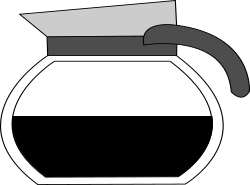
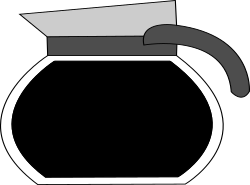
Fixed pot sensor functionality and fixed full pot element.

diff --git a/src/view/CoffeeMakerGui.java b/src/view/CoffeeMakerGui.java
@@ -33,15 +33,15 @@ public class CoffeeMakerGui extends JFrame {
 	final String BOILER_NOT_EMPTY = "resources/boilerNotEmpty.png";
 	final String BOILER_EMPTY = "resources/boilerEmpty.png";
 
-	final String BOILER_HEADER_ON = "resources/boilerHeaterOn.png";
-	final String BOILER_HEADER_OFF = "resources/boilerHeaterOff.png";
+	final String BOILER_HEATER_ON = "resources/boilerHeaterOn.png";
+	final String BOILER_HEATER_OFF = "resources/boilerHeaterOff.png";
 
-	final String PLATE_HEADER_ON = "resources/plateHeaterOn.png";
-	final String PLATE_HEADER_OFF = "resources/plateHeaterOff.png";
+	final String PLATE_HEATER_ON = "resources/plateHeaterOn.png";
+	final String PLATE_HEATER_OFF = "resources/plateHeaterOff.png";
 
-	final String PLATE_HEADER_POT_EMPTY = "resources/potEmpty_plateSensor.png";
-	final String PLATE_HEADER_POT_NOT_EMPTY = "resources/potNotEmpty_plateSensor.png";
-	final String PLATE_HEADER_WARMER_EMPTY = "resources/warmerEmpty_plateSensor.png";
+	final String PLATE_SENSOR_POT_EMPTY = "resources/potEmpty_plateSensor.png";
+	final String PLATE_SENSOR_POT_NOT_EMPTY = "resources/potNotEmpty_plateSensor.png";
+	final String PLATE_SENSOR_WARMER_EMPTY = "resources/warmerEmpty_plateSensor.png";
 
 	// creacion del panel que contenera todos los elementos.
 	private JPanel background;
@@ -53,8 +53,8 @@ public class CoffeeMakerGui extends JFrame {
 	private JLabel waterSensor;
 	private JLabel plateSensor;
 	private JLabel boiler;
-	private JLabel boilerHeader;
-	private JLabel plateHeader;
+	private JLabel boilerHeater;
+	private JLabel plateHeater;
 	private JLabel filter;
 	private JLabel pot;
 	private JLabel coffee;
@@ -80,7 +80,7 @@ public class CoffeeMakerGui extends JFrame {
 	private JMenu potMenu;
 	private JMenuItem putThePotsubMenu;
 	private JMenuItem raisethePotsubMenu;
-	private JMenuItem emptyThePotsubMenu;
+	//private JMenuItem emptyThePotsubMenu;
 	private JMenuItem fillThePotSubMenu;
 	
 	private JMenu filterMenu;
@@ -89,9 +89,9 @@ public class CoffeeMakerGui extends JFrame {
 	private JMenuItem emptyTheFiltersubMenu;
 	private JMenuItem fillTheFilterSubMenu;
 
-	private JMenu plateHeaderMenu;
-	private JMenuItem plateHeaderOnSubMenu;
-	private JMenuItem plateHeaderOffSubMenu;
+	private JMenu plateHeaterMenu;
+	private JMenuItem plateHeaterOnSubMenu;
+	private JMenuItem plateHeaterOffSubMenu;
 
 	private JMenu valveMenu;
 	private JMenuItem valveOpenSubMenu;
@@ -114,8 +114,8 @@ public class CoffeeMakerGui extends JFrame {
 		start = new JButton();
 		brew = new JLabel();
 		boiler = new JLabel();
-		boilerHeader = new JLabel();
-		plateHeader = new JLabel();
+		boilerHeater = new JLabel();
+		plateHeater = new JLabel();
 
 		configMouseIcon();
 		configCoffeeMakerGui();
@@ -192,15 +192,15 @@ public class CoffeeMakerGui extends JFrame {
 	}
 
 	public void setPlateSensorAsPlateNotEmpty() {
-		plateSensor.setIcon(new ImageIcon(PLATE_HEADER_POT_NOT_EMPTY));
+		plateSensor.setIcon(new ImageIcon(PLATE_SENSOR_POT_NOT_EMPTY));
 	}
 
 	public void setPlateSensorAsPlateEmpty() {
-		plateSensor.setIcon(new ImageIcon(PLATE_HEADER_POT_EMPTY));
+		plateSensor.setIcon(new ImageIcon(PLATE_SENSOR_POT_EMPTY));
 	}
 
 	public void setPlateSensorAsWarmerEmpty() {
-		plateSensor.setIcon(new ImageIcon(PLATE_HEADER_WARMER_EMPTY));
+		plateSensor.setIcon(new ImageIcon(PLATE_SENSOR_WARMER_EMPTY));
 	}
 
 	public void configBoiler() {
@@ -210,15 +210,15 @@ public class CoffeeMakerGui extends JFrame {
 	}
 
 	public void configBoilerHeater() {
-		setBoilerHeaderOff();
-		boilerHeader.setBounds(31, 388, 212, 23);
-		add(boilerHeader);
+		setBoilerHeaterOff();
+		boilerHeater.setBounds(31, 388, 212, 23);
+		add(boilerHeater);
 	}
 
 	public void configPlateHeater() {
-		setPlateHeaderOff();
-		plateHeader.setBounds(338, 408, 212, 23);
-		add(plateHeader);
+		setPlateHeaterOff();
+		plateHeater.setBounds(338, 408, 212, 23);
+		add(plateHeater);
 	}
 
 	public JMenuItem getValveOpenSubMenu() {
@@ -236,29 +236,30 @@ public class CoffeeMakerGui extends JFrame {
 	public JMenuItem getRaisethePotsubMenu() {
 		return raisethePotsubMenu;
 	}
-
+	/*
 	public JMenuItem getEmptyThePotsubMenu() {
 		return emptyThePotsubMenu;
 	}
+	*/
 
 	public JMenuItem getFillThePotSubMenu() {
 		return fillThePotSubMenu;
 	}
 
 	public void setBoilerHeaterOn() {
-		boilerHeader.setIcon(new ImageIcon(BOILER_HEADER_ON));
+		boilerHeater.setIcon(new ImageIcon(BOILER_HEATER_ON));
 	}
 
-	public void setBoilerHeaderOff() {
-		boilerHeader.setIcon(new ImageIcon(BOILER_HEADER_OFF));
+	public void setBoilerHeaterOff() {
+		boilerHeater.setIcon(new ImageIcon(BOILER_HEATER_OFF));
 	}
 
-	public void setPlateHeaderOn() {
-		plateHeader.setIcon(new ImageIcon(PLATE_HEADER_ON));
+	public void setPlateHeaterOn() {
+		plateHeater.setIcon(new ImageIcon(PLATE_HEATER_ON));
 	}
 
-	public void setPlateHeaderOff() {
-		plateHeader.setIcon(new ImageIcon(PLATE_HEADER_OFF));
+	public void setPlateHeaterOff() {
+		plateHeater.setIcon(new ImageIcon(PLATE_HEATER_OFF));
 	}
 
 	public JPopupMenu getCoffeeMakerMenu() {
@@ -273,20 +274,20 @@ public class CoffeeMakerGui extends JFrame {
 		return fillWaterSubMenu;
 	}
 
-	public JMenuItem getBoilerHeaderOnSubMenu() {
+	public JMenuItem getBoilerHeaterOnSubMenu() {
 		return boilerHeaterOnSubMenu;
 	}
 
-	public JMenuItem getBoilerHeaderOffSubMenu() {
+	public JMenuItem getBoilerHeaterOffSubMenu() {
 		return boilerHeaterOffSubMenu;
 	}
 
-	public JMenuItem getPlateHeaderOnSubMenu() {
-		return plateHeaderOnSubMenu;
+	public JMenuItem getPlateHeaterOnSubMenu() {
+		return plateHeaterOnSubMenu;
 	}
 
-	public JMenuItem getPlateHeaderOffSubMenu() {
-		return plateHeaderOffSubMenu;
+	public JMenuItem getPlateHeaterOffSubMenu() {
+		return plateHeaterOffSubMenu;
 	}
 
 	public void setWaterSensorAsBoilerNotEmpty() {

diff --git a/src/controller/CoffeeMakerController.java b/src/controller/CoffeeMakerController.java
@@ -63,23 +63,13 @@ public class CoffeeMakerController {
 				view.setWaterSensorAsBoilerNotEmpty();
 			}
 		});
-		/*
-		 * // Boiler header view.getBoilerHeaderOnSubMenu().addActionListener(new
-		 * ActionListener() { public void actionPerformed(ActionEvent e) {
-		 * view.setBoilerHeaterOn();
-		 * 
-		 * } });
-		 * 
-		 * view.getBoilerHeaderOffSubMenu().addActionListener(new ActionListener() {
-		 * public void actionPerformed(ActionEvent e) { view.setBoilerHeaderOff(); } });
-		 */
-		
 		
 		// Pot
 		view.getPutThePotsubMenu().addActionListener(new ActionListener() {
 			public void actionPerformed(ActionEvent e) {
 				view.setPotEmpty();
 				view.setPlateSensorAsPlateEmpty();
+				view.setPlateHeaterOff();
 			}
 		});
 
@@ -87,12 +77,14 @@ public class CoffeeMakerController {
 			public void actionPerformed(ActionEvent e) {
 				view.setPotUnAvailable();
 				view.setPlateSensorAsWarmerEmpty();
+				
 			}
 		});
 		view.getFillThePotSubMenu().addActionListener(new ActionListener() {
 			public void actionPerformed(ActionEvent e) {
 				view.setPotNotEmpty();
 				view.setPlateSensorAsPlateNotEmpty();
+				view.setPlateHeaterOff();
 			}
 		});
 
@@ -111,14 +103,6 @@ public class CoffeeMakerController {
 			}
 		});
 
-		/*
-		 * // Plate header view.getPlateHeaderOnSubMenu().addActionListener(new
-		 * ActionListener() { public void actionPerformed(ActionEvent e) {
-		 * view.setPlateHeaderOn(); } });
-		 * 
-		 * view.getPlateHeaderOffSubMenu().addActionListener(new ActionListener() {
-		 * public void actionPerformed(ActionEvent e) { view.setPlateHeaderOff(); } });
-		 */
 		// start Button
 		view.getStart().addActionListener(new StartButtonListener());
 	}
@@ -151,8 +135,18 @@ public class CoffeeMakerController {
 				public void run() {
 					// All here all operations that are in progress
 					view.setPotInProgress();
-					view.setBoilerHeaterOn();
+					view.setBoilerHeaterOn();					
 					model.getBoiler().getHeater().on();
+					
+					//YOOOO
+					/*
+					view.setPlateSensorAsPlateEmpty();
+					
+					view.setFillWater();
+					*/
+					
+					
+					
 					try {
 						Thread.sleep(3000);
 					} catch (InterruptedException ex) {
@@ -163,7 +157,8 @@ public class CoffeeMakerController {
 							// All here all operations that are completed.
 							view.setBrewCompleted();
 							model.getLight().on();
-
+							
+							view.setPlateSensorAsPlateNotEmpty();
 							view.setPotCompleted();
 							model.getPlate().getSensor().setStatus(PlateSensorStatus.POT_NOT_EMPTY);
 
@@ -174,10 +169,10 @@ public class CoffeeMakerController {
 							view.setValveOpened();
 							model.getBoiler().getValve().close();
 
-							view.setBoilerHeaderOff();
+							view.setBoilerHeaterOff();
 							model.getBoiler().getHeater().off();
 
-							view.setPlateHeaderOn();
+							view.setPlateHeaterOn();
 							model.getPlate().getHeater().on();
 						}
 					});
